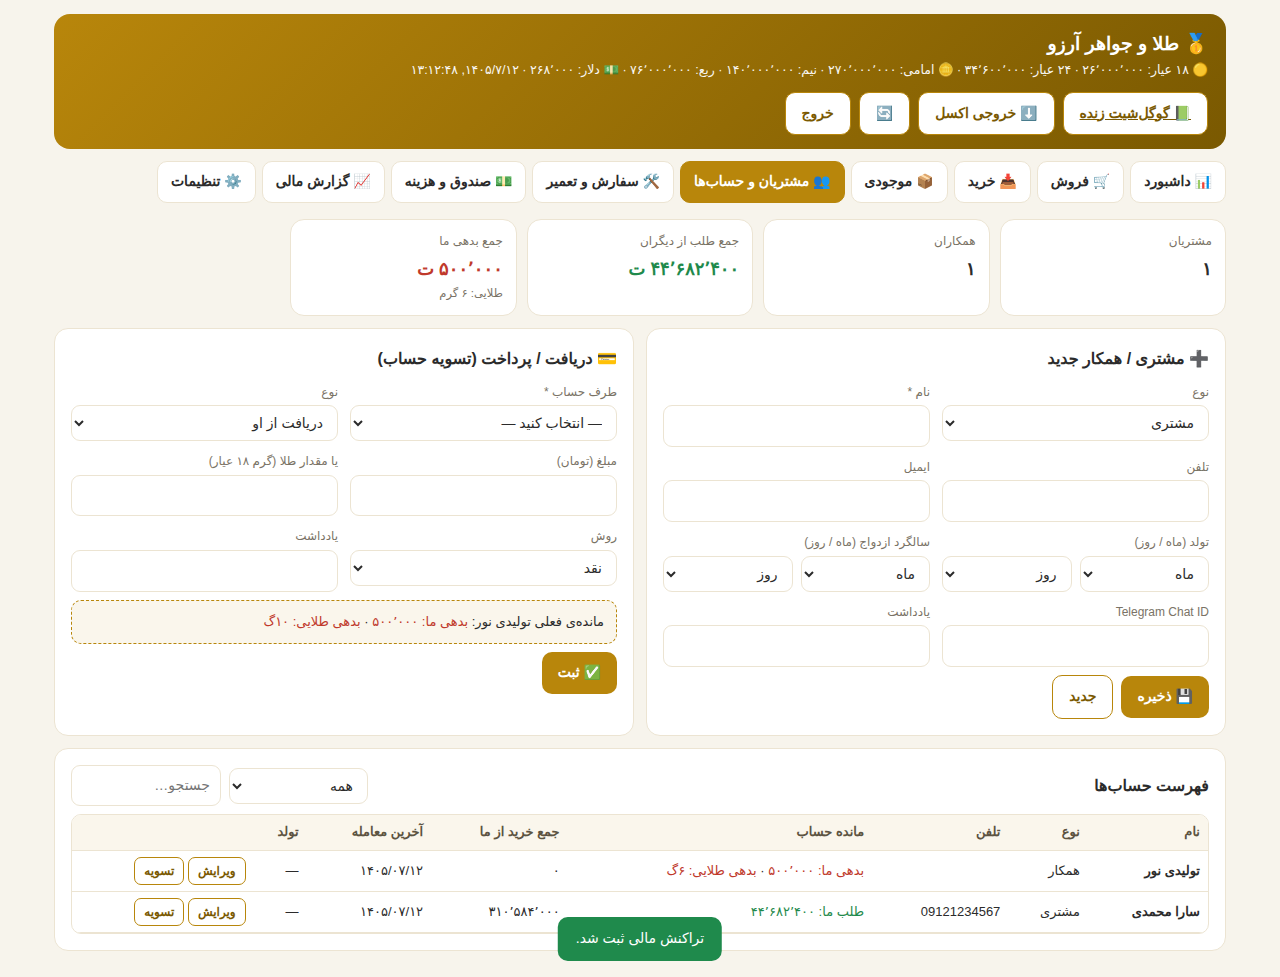
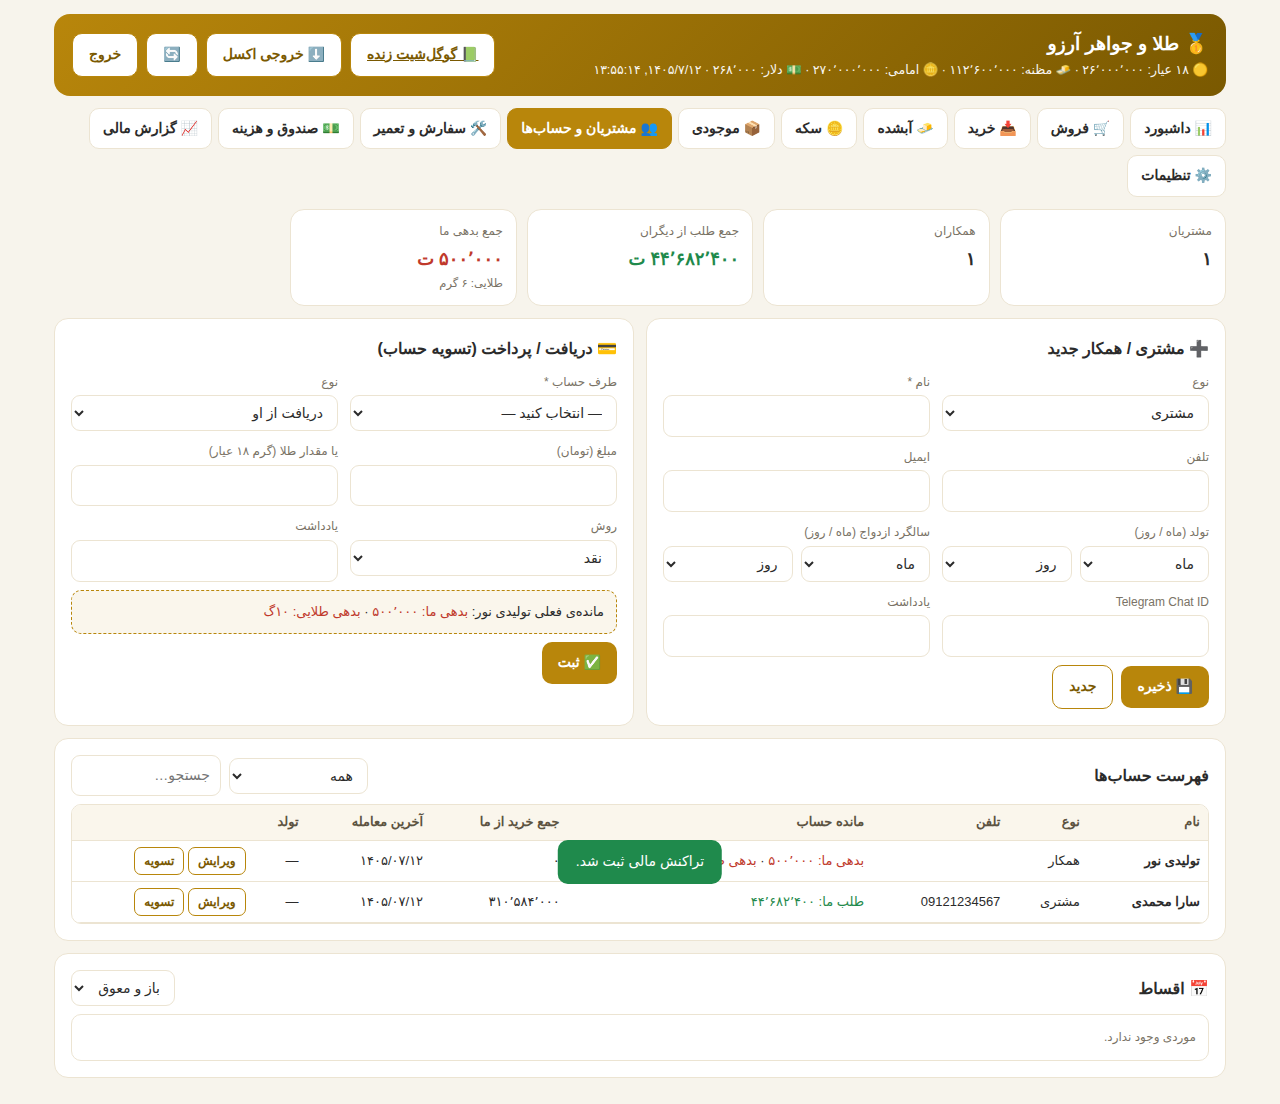
Level 3: melted gold, coins, installments, stones, barcode labels docs
Claude-Session: https://claude.ai/code/session_015QusSK3znzvYwsVRtgf6jv

diff --git a/projects/goldsmith/level3-gold-shop-management/README.md b/projects/goldsmith/level3-gold-shop-management/README.md
@@ -3,7 +3,7 @@
 > **Goldsmith track · Level 3 (Advanced)** — builds on **[Level 1: Live Price Bot](../level1-live-gold-price-bot)** and **[Level 2: Invoice Assistant](../level2-invoice-and-fee-assistant)**.
 > **مسیر طلافروش · سطح ۳ (پیشرفته)** — ادامهی **[سطح ۱: ربات قیمت لحظهای](../level1-live-gold-price-bot)** و **[سطح ۲: دستیار فاکتور](../level2-invoice-and-fee-assistant)**.
 
-`#n8n` `#gold_shop` `#inventory_management` `#real_profit` `#erp` `#admin_panel` `#google_sheets` `#excel` `#سیستم_مدیریت_طلافروشی` `#مدیریت_موجودی` `#سود_واقعی` `#حساب_همکار` `#طلافروش` `#حسابداری_طلا` `#اتوماسیون` `#iran` `#level3`
+`#n8n` `#gold_shop` `#inventory_management` `#real_profit` `#erp` `#admin_panel` `#google_sheets` `#excel` `#melted_gold` `#gold_coins` `#installments` `#barcode` `#سیستم_مدیریت_طلافروشی` `#مدیریت_موجودی` `#سود_واقعی` `#حساب_همکار` `#آبشده` `#مظنه` `#سکه` `#فروش_اقساطی` `#طلافروش` `#حسابداری_طلا` `#اتوماسیون` `#iran` `#level3`
 
 > 🔗 **Shop website | سایت فروشگاه:** **https://n8n.aifardainstitute.ir/webhook/gold-shop** → button **«🔐 پنل مدیریت فروشگاه»**
 > 🔗 **Admin panel | پنل مدیریت:** **https://n8n.aifardainstitute.ir/webhook/gold-admin** (password-protected · با رمز ورود؛ رمز را خود مدیر در «تنظیمات» عوض میکند)
@@ -37,6 +37,10 @@ flowchart LR
 | ![accounts](docs/screenshots/accounts.png) | ![cash](docs/screenshots/cash.png) |
 | 📦 **Inventory by weight & karat / موجودی به تفکیک عیار** | 📈 **Financial report / گزارش مالی** |
 | ![inventory](docs/screenshots/inventory.png) | ![report](docs/screenshots/report.png) |
+| 🧈 **Melted gold (by mazaneh) & melting / آبشده و ذوب** | 🪙 **Coins: stock, avg cost, bubble / سکه** |
+| ![ab](docs/screenshots/ab.png) | ![coin](docs/screenshots/coin.png) |
+| 🏷 **Barcode labels / اتیکت بارکددار** | |
+| ![labels](docs/screenshots/labels.png) | |
 
 <sub>Screenshots use sample test data. / تصاویر با دادهی آزمایشی گرفته شدهاند.</sub>
 
@@ -50,6 +54,12 @@ flowchart LR
 - **Multi-item invoices** — fee % + profit % or a fixed agreed price, discount, VAT on fee & profit only, **trade-in of old gold**, payment method (cash / POS / card-to-card / cheque / mixed), partial payment → automatic customer credit; printable invoice + email to the customer.
 - **Returns & corrections** — sales returns (refund is reduced by any open customer debt), voiding mistaken entries.
 - **Customer & supplier ledger** — money balance and **gold balance in grams** for every party; receive / pay in cash or in gold.
+- **Melted gold (آبشده)** — buy/sell by **mazaneh** (live or manual) per mesghal of 705 with a per-mesghal commission, lab assay and certificate number; **melt used gold into a bar** with the melt loss recorded in grams and the cost carried over.
+- **Coins** — Emami, Bahar Azadi, half, quarter, gram coins: stock by count, moving-average cost, live price and bubble, real profit per sale, voidable trades.
+- **Installment sales** — split any credit balance into N installments (Jalali due dates); due/overdue list on the dashboard and a 09:00 Telegram reminder; one-click installment receipt.
+- **Stones & per-gram making fee** — stone/gem cost per piece (added to cost and sale price); making fee as % or toman per gram.
+- **Barcode labels & scanner** — printable CODE128 tags (shop, title, weight, karat); a USB scanner types the code into the sale form and the piece drops into the cart.
+- **Live price board** — 18K, 740, 24K, used gold, mazaneh, melted-cash/wholesale, every coin with its bubble, silver 925, ounce, USD, EUR.
 - **Custom orders & repairs** — deposit, due date, status workflow.
 - **Cash box & expenses** — daily/monthly in-out per payment method; rent, wages, bills …
 - **Real profit, including price swings** — each sale is split into:
@@ -77,6 +87,12 @@ n8n (webhooks + schedules) · n8n Data Tables (database) · single-page admin pa
 - **فاکتور فروش چندقلمی** — درصد اجرت و سود یا مبلغ توافقی، تخفیف، مالیات ارزش افزوده (فقط روی اجرت و سود)، **تعویض طلای کهنه**، روش پرداخت (نقد/کارتخوان/کارتبهکارت/چک/ترکیبی)، پرداخت ناقص ← نسیهی خودکار؛ چاپ فاکتور و ایمیل به مشتری.
 - **برگشت از فروش و ابطال** — مبلغ استرداد با بدهی مشتری تهاتر میشود؛ ابطال ثبتهای اشتباه.
 - **حساب مشتری و همکار** — ماندهی ریالی و **ماندهی طلایی (گرم)**؛ دریافت/پرداخت نقدی یا طلایی.
+- **🧈 آبشده** — خرید و فروش با **مظنه** (روز یا دستی) بهازای مثقال ۷۰۵ با کارمزد هر مثقال، عیار آزمایشگاه و شمارهی ریگیری؛ **ذوب طلای کهنه و تبدیل به آبشده** با ثبت افت (گرم) و انتقال بهای تمامشده.
+- **🪙 سکه** — امامی، بهار آزادی، نیم، ربع، گرمی: موجودی تعدادی، میانگین بهای خرید، قیمت روز و حباب، سود واقعی هر فروش، امکان ابطال.
+- **📅 فروش اقساطی** — تقسیط ماندهی نسیه به چند قسط با سررسید شمسی؛ فهرست سررسیده/معوق در داشبورد و یادآوری تلگرامی ساعت ۹؛ دریافت قسط با یک کلیک.
+- **💎 سنگ و اجرت گرمی** — قیمت سنگ/نگین هر قطعه (در بها و قیمت فروش)؛ اجرت درصدی یا تومان برای هر گرم.
+- **🏷 اتیکت بارکددار و بارکدخوان** — چاپ اتیکت با نام مغازه، عنوان، وزن و عیار؛ با بارکدخوان، کالا مستقیم وارد فاکتور میشود.
+- **📋 تابلوی نرخ** — ۱۸ عیار، ۷۴۰، ۲۴ عیار، دستدوم، مظنه، آبشده نقدی/بنکداری، همهی سکهها با حباب، نقره ۹۲۵، انس، دلار، یورو.
 - **سفارش ساخت و تعمیر** — بیعانه، تاریخ تحویل، وضعیت.
 - **صندوق و هزینهها** — ورودی/خروجی روزانه و ماهانه به تفکیک روش پرداخت؛ اجاره، حقوق، قبوض و …
 - **سود واقعی با احتساب نوسان قیمت**:

diff --git a/projects/goldsmith/level3-gold-shop-management/docs/setup.md b/projects/goldsmith/level3-gold-shop-management/docs/setup.md
@@ -8,11 +8,12 @@
 
 | Table | Columns |
 |---|---|
-| `gs_inventory` | `code, title, category, weight#, karat#, weight750#, buyRate18#, makingCost#, buyCost#, buyDay, supplier, status, soldTx, note` |
-| `gs_transactions` | `code, type, day, dateFa, itemCode, title, weight750#, rate18#, amount#, costBasis#, operatingProfit#, holdingGain#, realProfit#, customerCode, customerName, note, payMethod, vat#, invoice, grams#, category, voided` |
+| `gs_inventory` | `code, title, category, weight#, karat#, weight750#, buyRate18#, makingCost#, buyCost#, buyDay, supplier, status, soldTx, note, stoneCost#, cert` |
+| `gs_transactions` | `code, type, day, dateFa, itemCode, title, weight750#, rate18#, amount#, costBasis#, operatingProfit#, holdingGain#, realProfit#, customerCode, customerName, note, payMethod, vat#, invoice, grams#, category, voided, qty#` |
 | `gs_customers` | `code, name, phone, email, telegramChatId, birthday, anniversary, notes, kind` |
 | `gs_orders` | `code, dateFa, customerCode, customerName, phone, kind, description, weight#, karat#, estimate#, deposit#, dueDate, status, note` |
 | `gs_settings` | `key, value` |
+| `gs_installments` | `code, invoice, customerCode, customerName, phone, n#, count#, dueDate, amount#, paid#, status, paidDate` |
 | `invoices` | فاکتورهای سایت (سطح ۲) — فقط خوانده میشود |
 
 </div>
@@ -21,7 +22,7 @@
 
 ## گام ۲ — گوگلشیت
 یک Spreadsheet با این تبها (ردیف اول = عنوان ستونها، دقیقاً مثل خروجی اکسل):
-`موجودی` · `تراکنشها` · `مشتریان و همکاران` · `سفارشها` · `فاکتورهای سایت`
+`موجودی` · `تراکنشها` · `مشتریان و همکاران` · `سفارشها` · `اقساط` · `فاکتورهای سایت`
 در نودهای «Sheet: …» شناسهی همین فایل را بگذار. ستون مشترک برای بهروزرسانی: `کد`.
 
 ## گام ۳ — Import و کردنشیالها
@@ -57,6 +58,20 @@ holdingGain     = goldNow − w750 × buyRate18
 realProfit      = salePrice − buyCost = operatingProfit + holdingGain
 VAT             = vatPct × max(0, salePrice − goldNow)      (not profit)
 netProfit       = Σ realProfit − Σ expenses
+```
+
+</div>
+
+## آبشده و سکه
+
+<div dir="ltr">
+
+```
+mesghal  = weight × assay / 705 / 4.608          (mazaneh is the price of one mesghal of 705)
+buy      = mesghal × (mazaneh − commission)
+sell     = mesghal × (mazaneh + commission)
+rate18   = mazaneh / 4.3318                       (18K gram rate equivalent)
+coins    : moving-average cost per coin type; realProfit = price×qty − avg×qty
 ```
 
 </div>

diff --git a/README.md b/README.md
@@ -27,7 +27,7 @@
 |---|---|---|
 | 🌐 | [https://n8n.aifardainstitute.ir/webhook/gold-shop](https://n8n.aifardainstitute.ir/webhook/gold-shop) | سایت طلافروشی: **قیمت لحظهای** (سطح ۱) + **صدور فاکتور** (سطح ۲) + دکمهی **پنل مدیریت** (سطح ۳) در یک صفحه |
 | 🧾 | [https://n8n.aifardainstitute.ir/form/gold-invoice](https://n8n.aifardainstitute.ir/form/gold-invoice) | فرم صدور فاکتور (سطح ۲) |
-| 🖥 | [https://n8n.aifardainstitute.ir/webhook/gold-admin](https://n8n.aifardainstitute.ir/webhook/gold-admin) | پنل مدیریت طلافروشی (سطح ۳) — با رمز ورود 🔐 (رمز را مدیر خودش میگذارد و عوض میکند)؛ خروجی اکسل لحظهای |
+| 🖥 | [https://n8n.aifardainstitute.ir/webhook/gold-admin](https://n8n.aifardainstitute.ir/webhook/gold-admin) | پنل مدیریت طلافروشی (سطح ۳) — با رمز ورود 🔐 (رمز را مدیر خودش میگذارد و عوض میکند)؛ آبشده، سکه، فروش اقساطی، اتیکت بارکددار، خروجی اکسل لحظهای |
 | 📗 | گوگلشیت زنده (خصوصی) | همهی ثبتهای سطح ۲ و ۳ با همان ستونهای خروجی اکسل |
 | 🤖 | ربات تلگرام قیمت (سطح ۱) | پیام `قیمت` به ربات → قیمت طلا، سکه و ارز |
 
